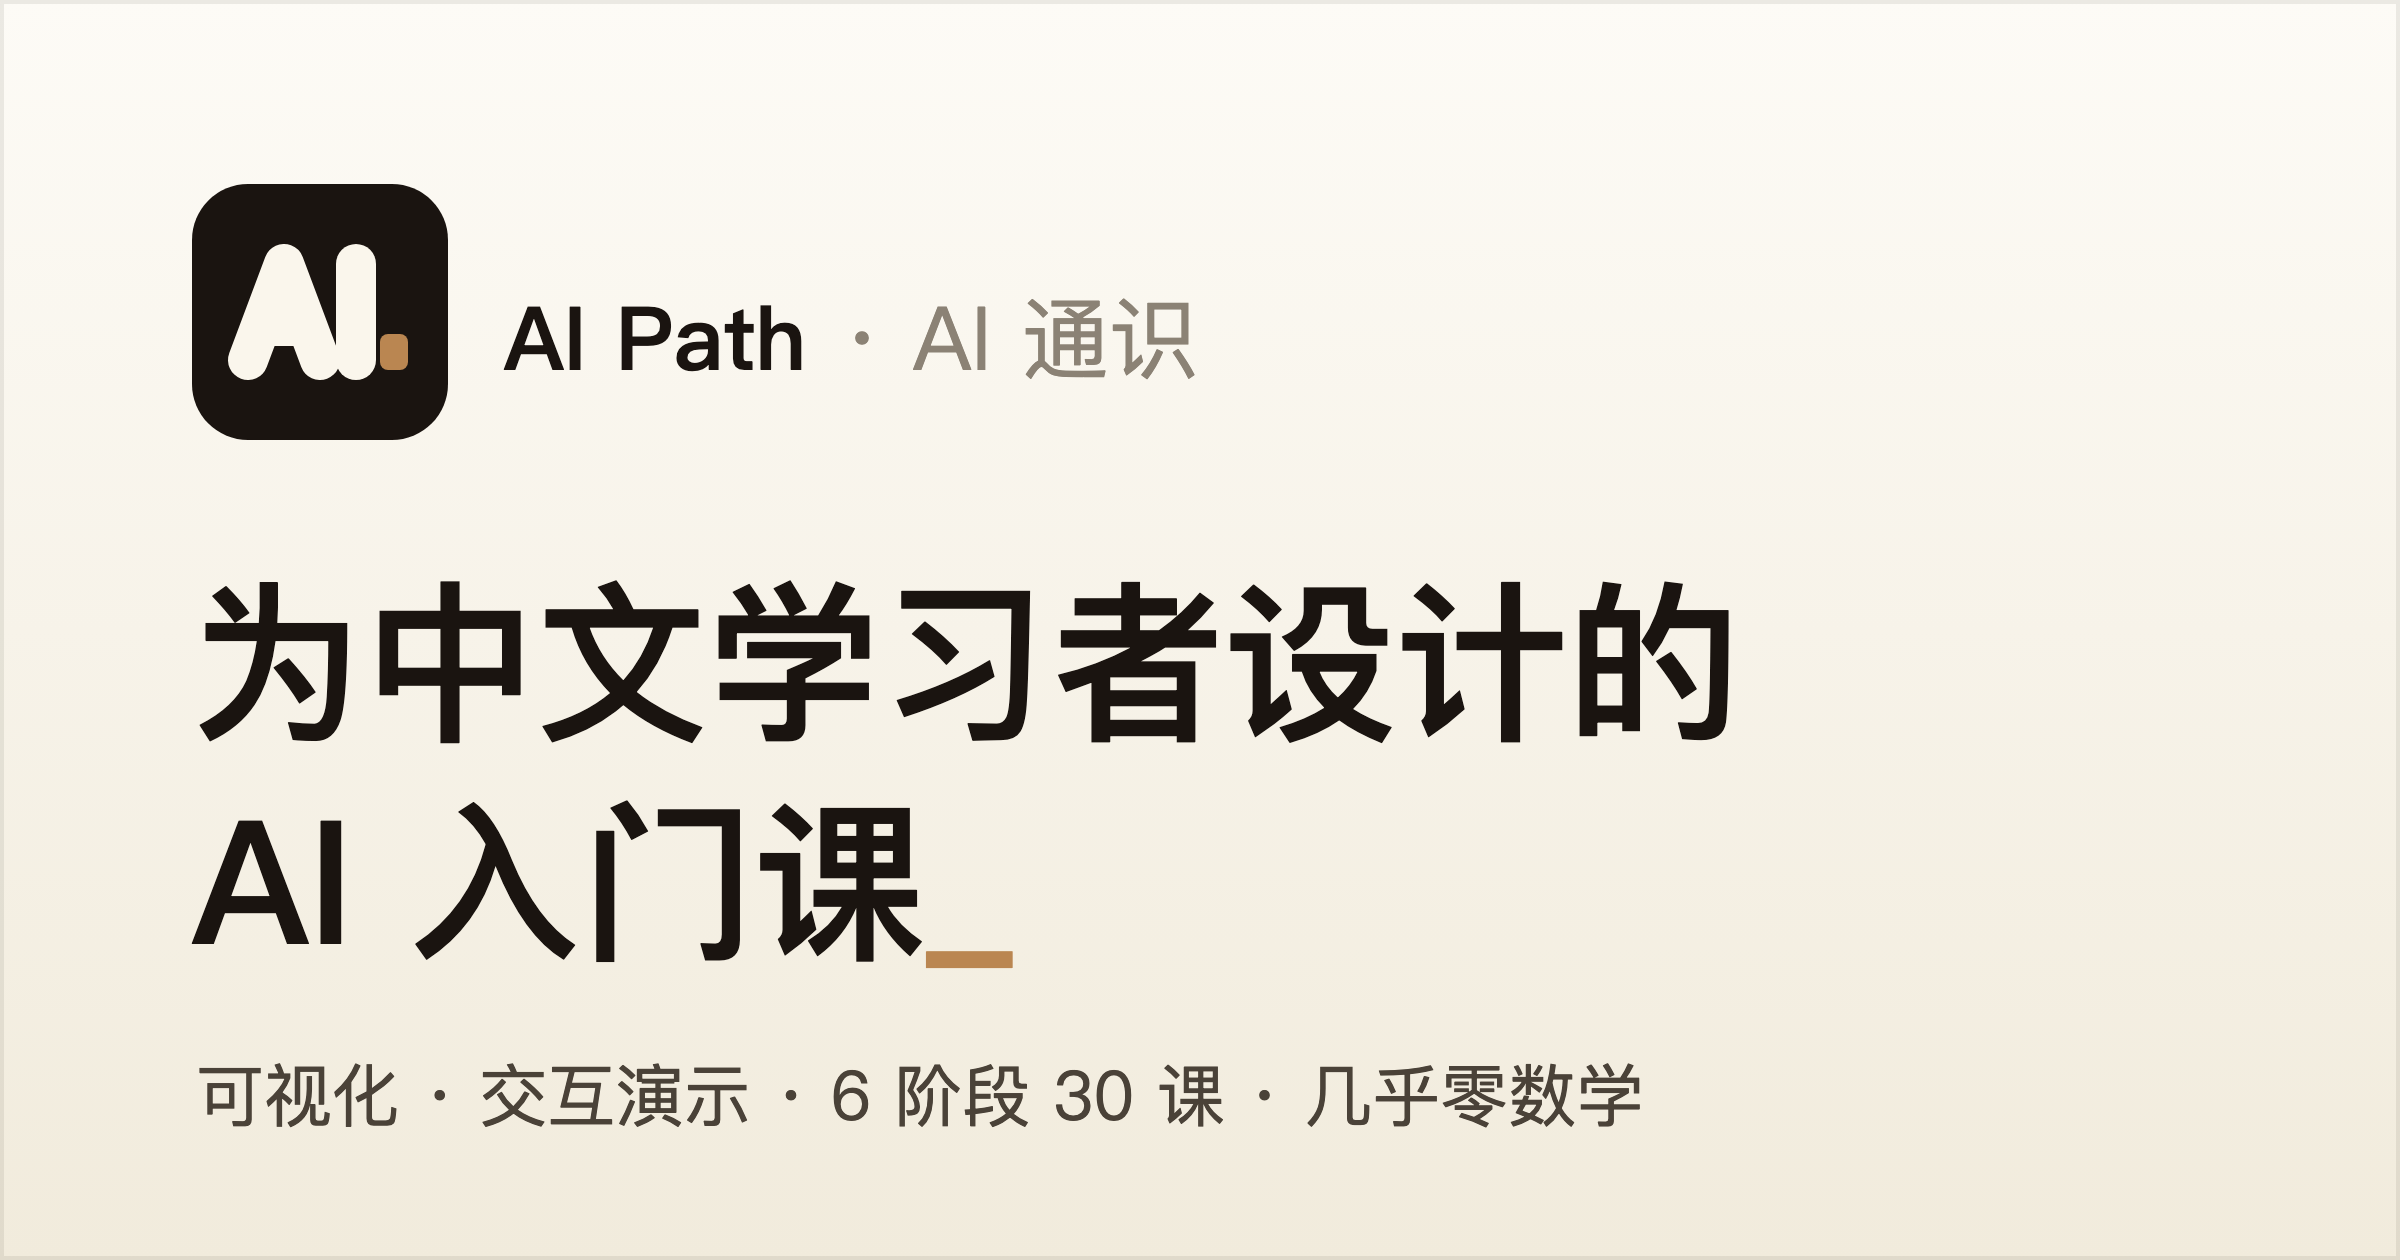
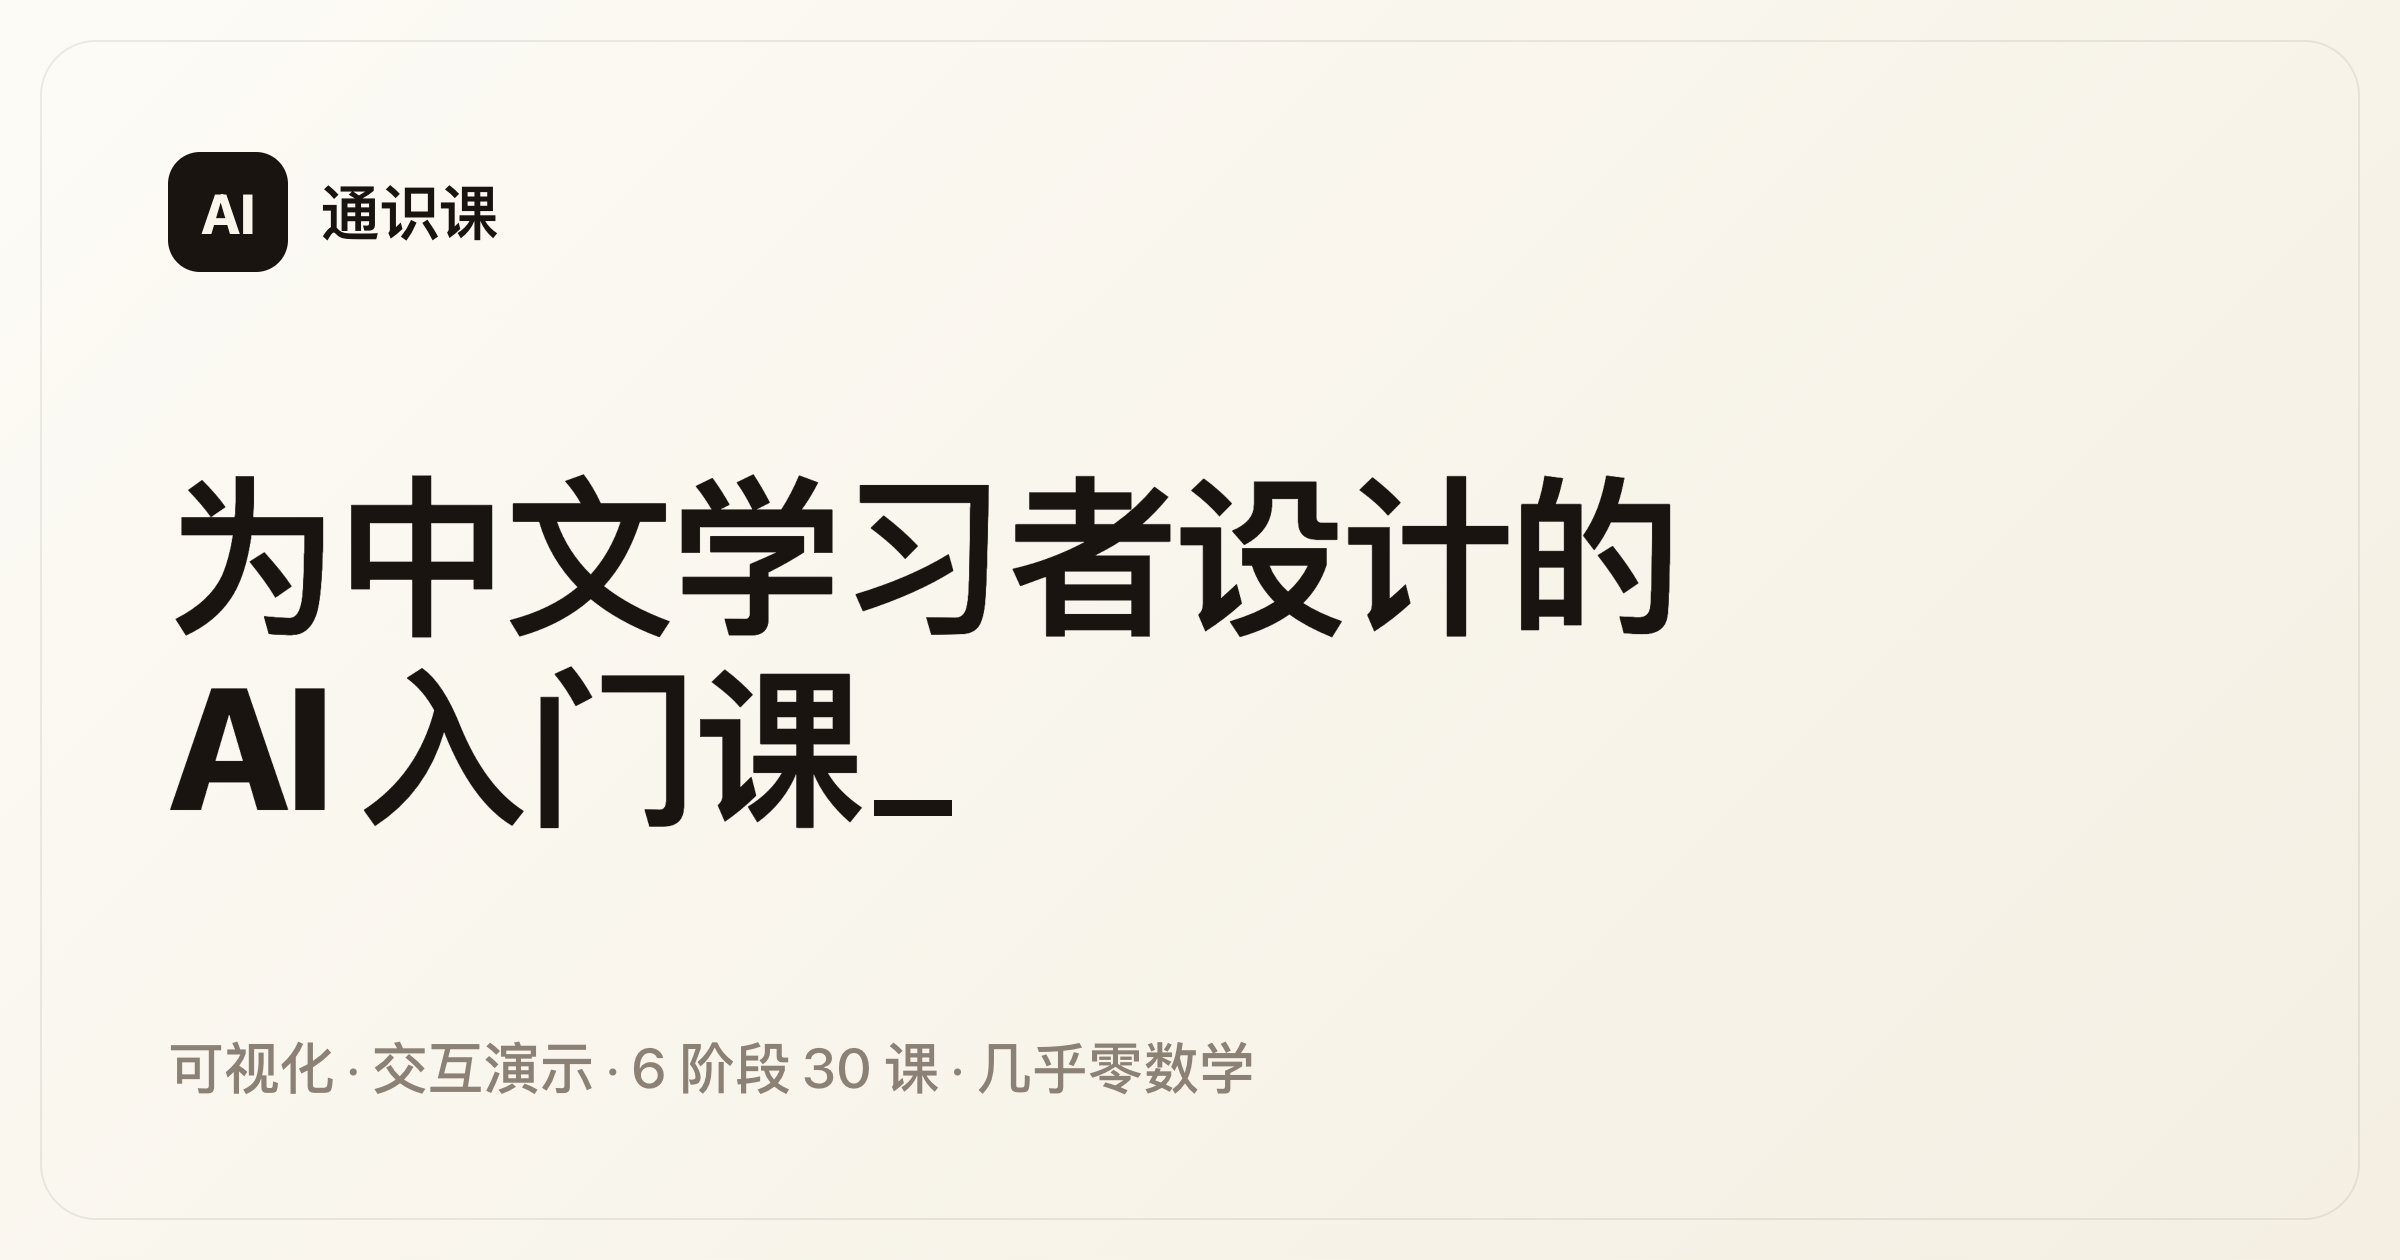
Add OG image generation script and dynamic Open Graph tags per locale

diff --git a/src/i18n/LangContext.jsx b/src/i18n/LangContext.jsx
@@ -54,6 +54,17 @@ export function LangProvider({ children }) {
     document.title = meta.title
     const desc = document.querySelector('meta[name="description"]')
     if (desc) desc.setAttribute('content', meta.description)
+    // 社交分享图随语言切换：og-image(中) / og-image-en(英)
+    const setMeta = (sel, val) => {
+      const el = document.querySelector(sel)
+      if (el && val) el.setAttribute('content', val)
+    }
+    setMeta('meta[property="og:image"]', meta.ogImage)
+    setMeta('meta[name="twitter:image"]', meta.ogImage)
+    setMeta('meta[property="og:image:alt"]', meta.title)
+    setMeta('meta[property="og:title"]', meta.title)
+    setMeta('meta[name="twitter:title"]', meta.title)
+    setMeta('meta[property="og:locale"]', meta.ogLocale)
   }, [lang])
 
   return (

diff --git a/src/i18n/strings.js b/src/i18n/strings.js
@@ -12,6 +12,8 @@ export const META = {
     title: "AI 通识课 · 为中文学习者设计的 AI 入门课",
     description:
       "零基础 AI 课程：用可视化与交互演示讲透 AI 核心原理，6 个阶段 30 课，从神经网络直觉到亲手构建 AI 应用，专为中文学习者设计。",
+    ogImage: "https://aipath.buynao.com/og-image.png",
+    ogLocale: "zh_CN",
   },
   en: {
     lang: "en",
@@ -19,6 +21,8 @@ export const META = {
     title: "Interactive AI General Education Course — 30 Lessons, Zero Math",
     description:
       "A from-zero AI course: core principles explained through visuals and interactive demos. 6 stages, 30 lessons — from neural-network intuition to building your own AI apps.",
+    ogImage: "https://aipath.buynao.com/og-image-en.png",
+    ogLocale: "en_US",
   },
 };
 